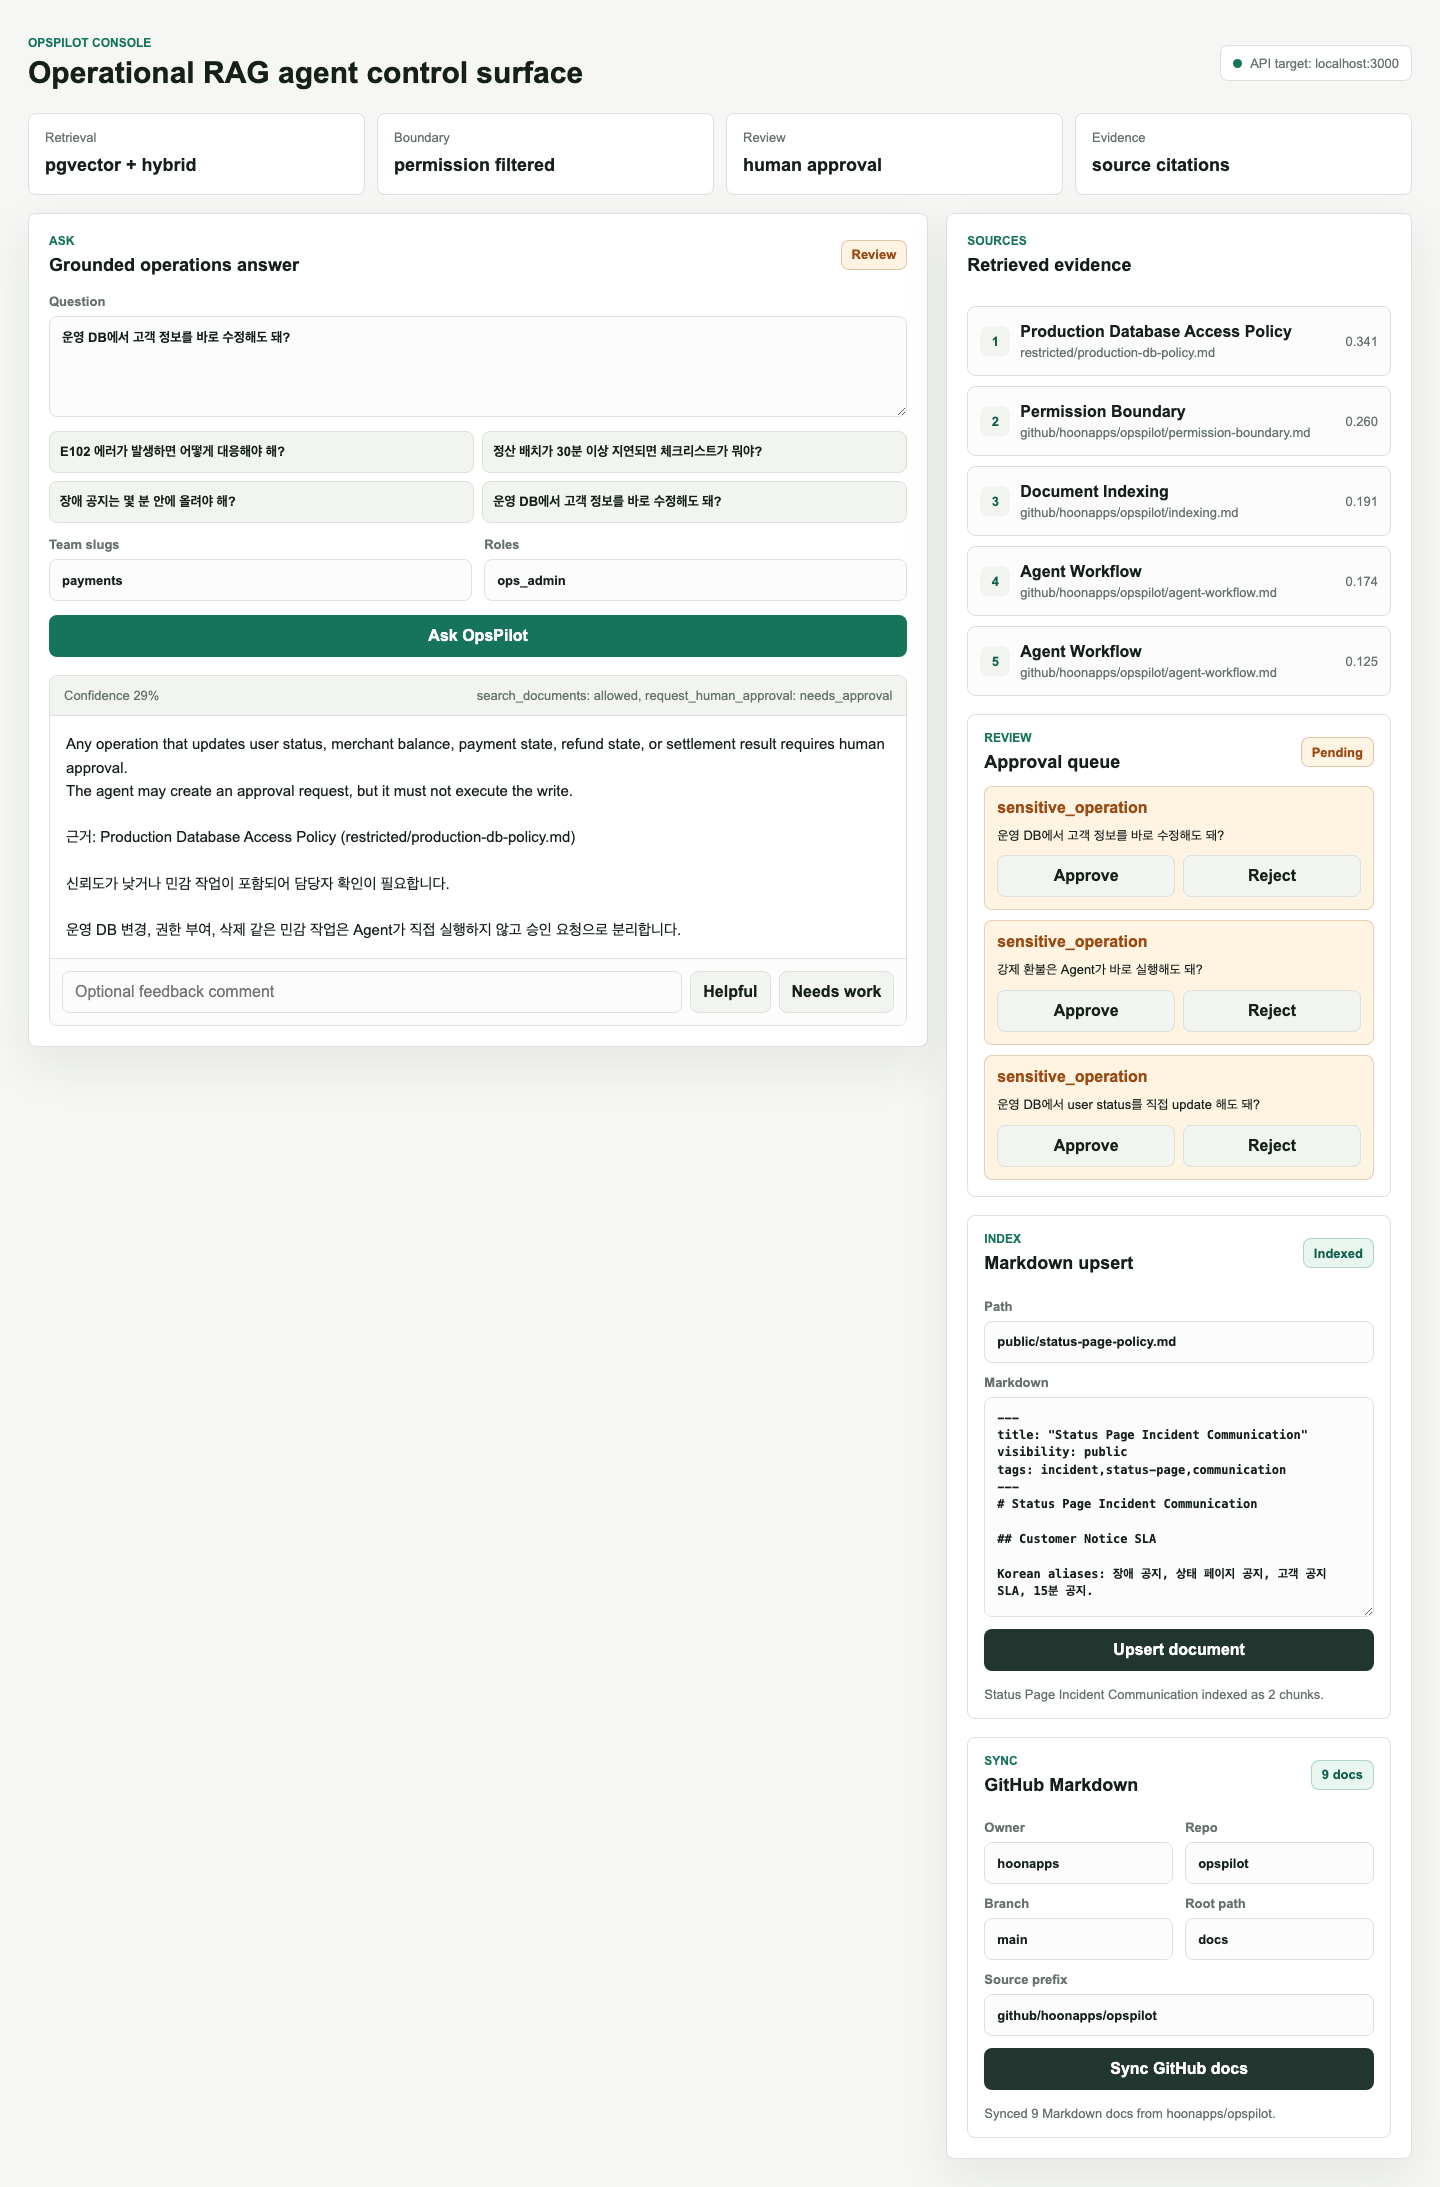
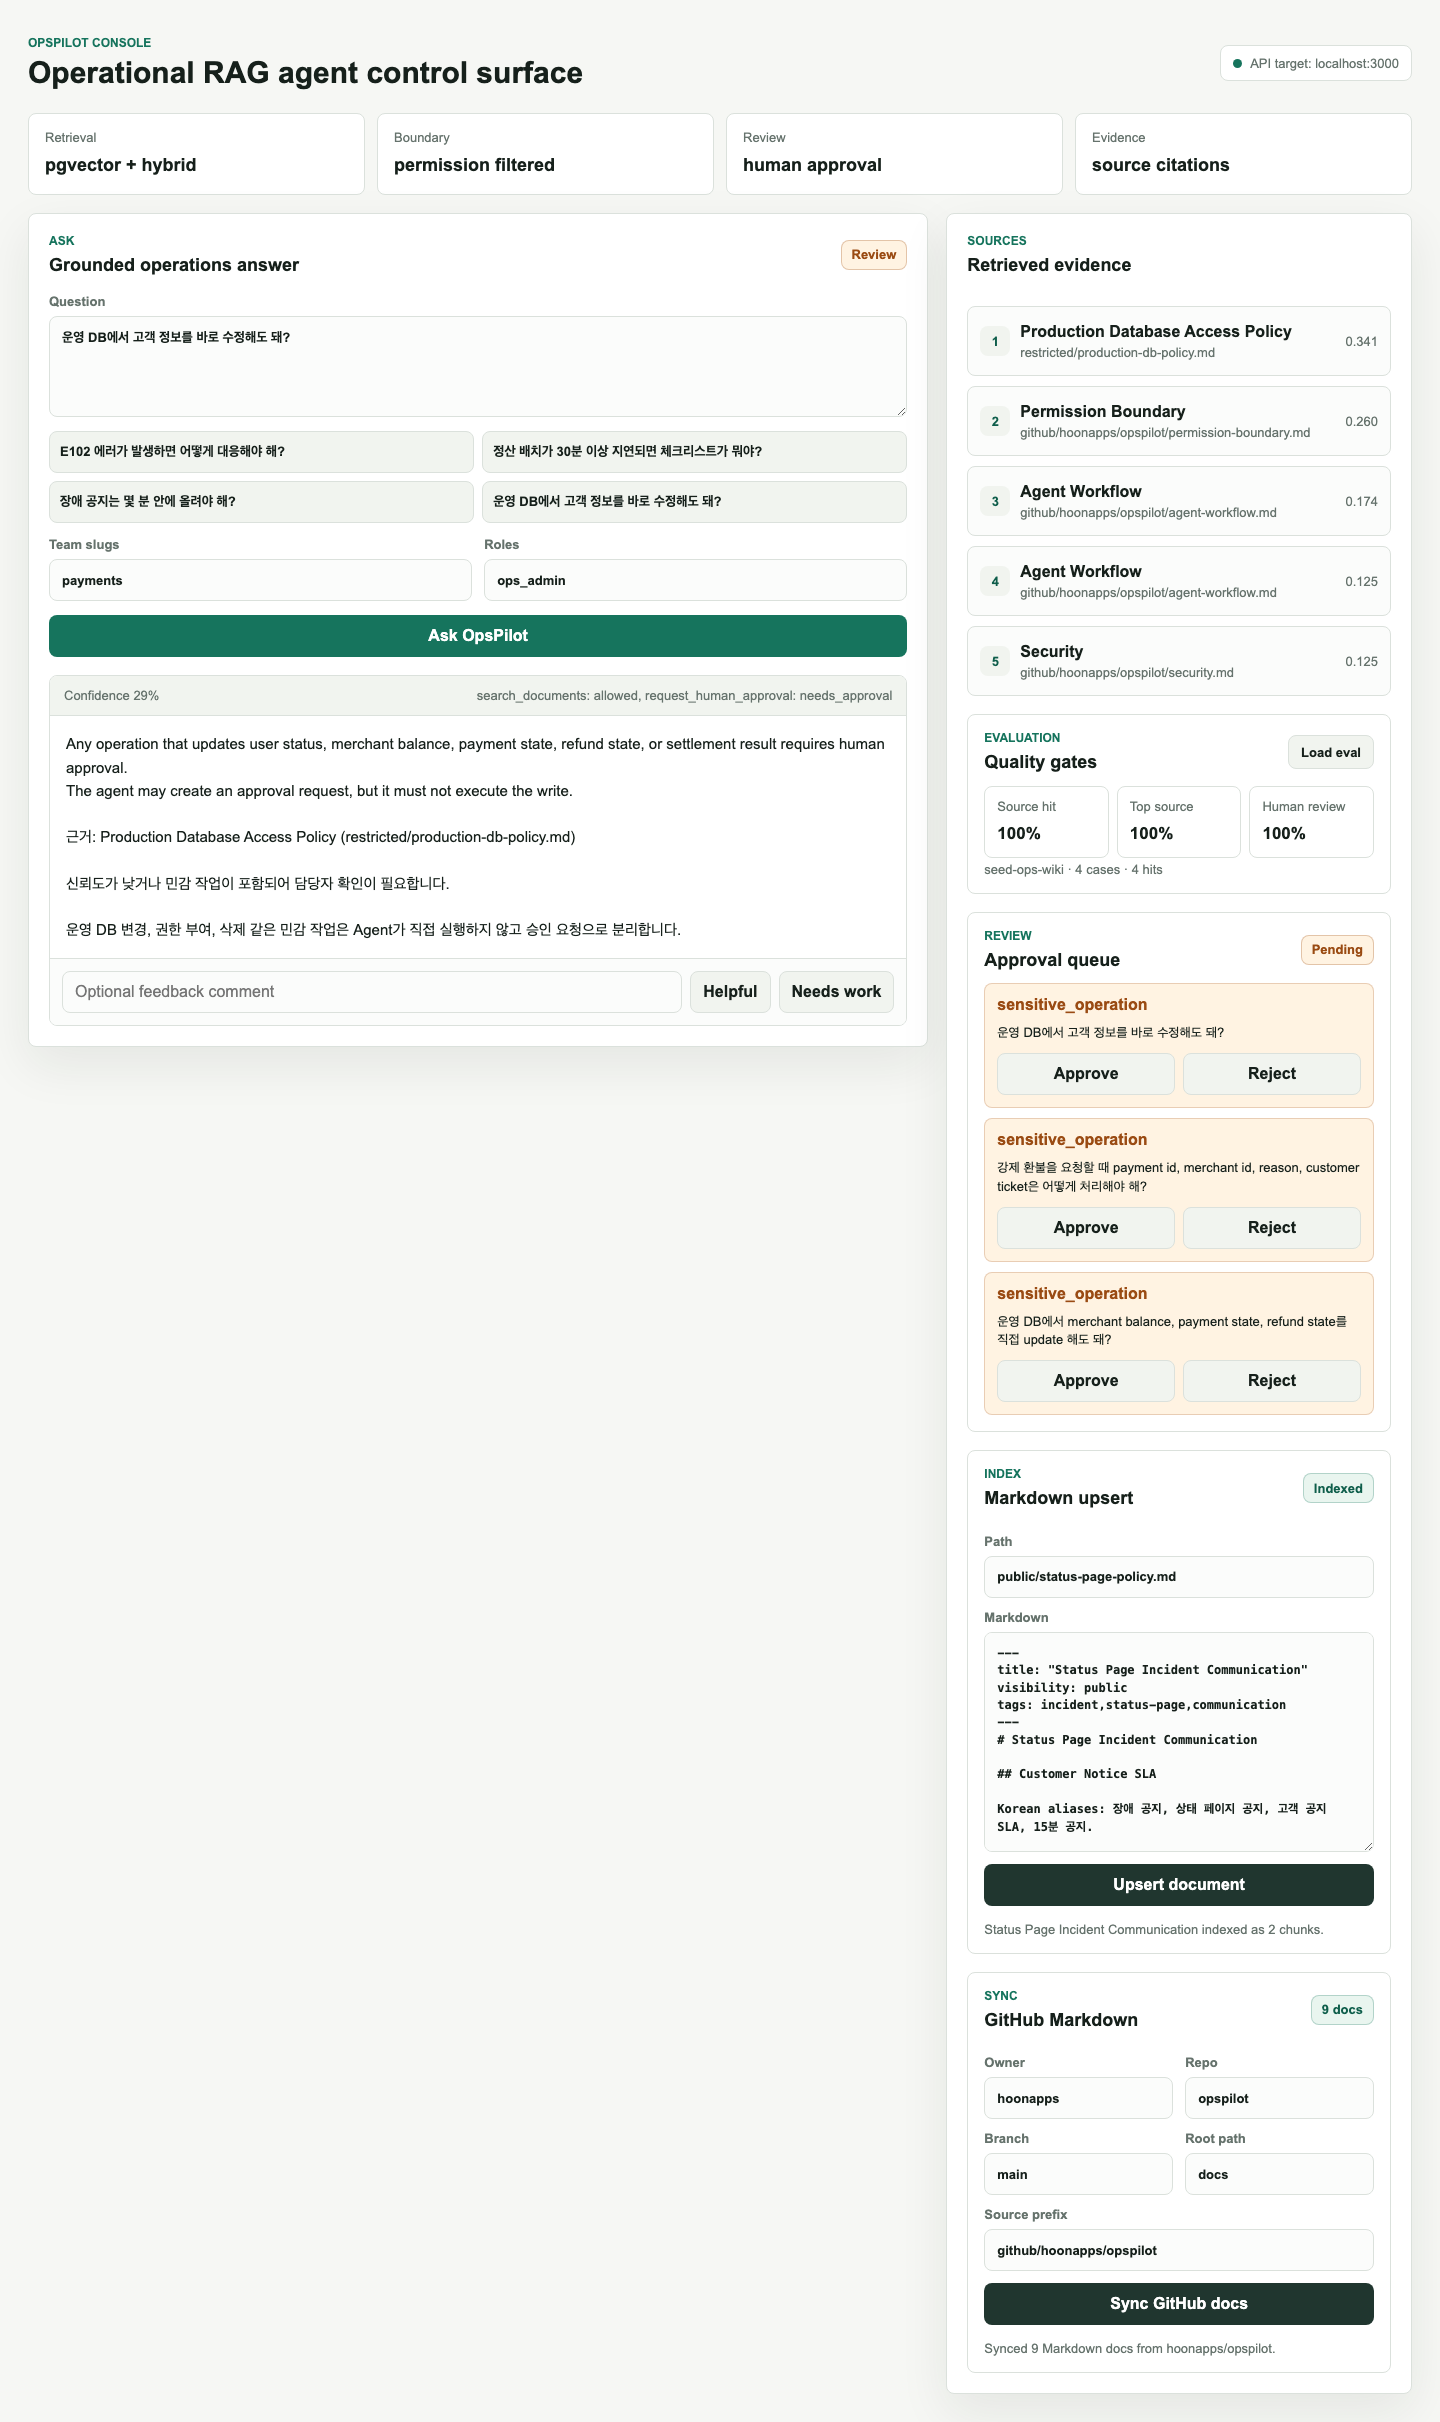
feat: add evaluation quality dashboard

diff --git a/apps/api/src/evaluation/evaluation.service.ts b/apps/api/src/evaluation/evaluation.service.ts
@@ -26,6 +26,25 @@ export type EvalReport = {
   }>;
 };
 
+export type LatestEvalReport = {
+  suiteName: string;
+  createdAt: string;
+  total: number;
+  metrics: {
+    sourceHitRate: number;
+    topSourceAccuracy: number;
+    humanReviewAccuracy: number;
+  };
+  rows: EvalReport["rows"];
+} | null;
+
+type EvaluationMetricRow = {
+  metric_name: string;
+  score: number;
+  details: { total?: number; rows?: EvalReport["rows"] };
+  created_at: Date | string;
+};
+
 @Injectable()
 export class EvaluationService {
   constructor(
@@ -93,6 +112,46 @@ export class EvaluationService {
     );
 
     return report;
+  }
+
+  async latest(suiteName: string): Promise<{ report: LatestEvalReport }> {
+    const rows = (await this.orm.em.fork().getConnection().execute(
+      `
+        select distinct on (metric_name)
+          metric_name,
+          score,
+          details,
+          created_at
+        from evaluation_results
+        where suite_name = ?
+        order by metric_name, created_at desc;
+      `,
+      [suiteName]
+    )) as EvaluationMetricRow[];
+
+    if (rows.length === 0) {
+      return { report: null };
+    }
+
+    const byMetric = new Map(rows.map((row) => [row.metric_name, row]));
+    const details = byMetric.get("source_hit_rate")?.details ?? rows[0].details;
+    const createdAt = rows
+      .map((row) => new Date(row.created_at))
+      .reduce((latest, value) => (value > latest ? value : latest), new Date(rows[0].created_at));
+
+    return {
+      report: {
+        suiteName,
+        createdAt: createdAt.toISOString(),
+        total: details.total ?? details.rows?.length ?? 0,
+        metrics: {
+          sourceHitRate: byMetric.get("source_hit_rate")?.score ?? 0,
+          topSourceAccuracy: byMetric.get("top_source_accuracy")?.score ?? 0,
+          humanReviewAccuracy: byMetric.get("human_review_accuracy")?.score ?? 0
+        },
+        rows: details.rows ?? []
+      }
+    };
   }
 }
 

diff --git a/apps/web/src/app/page.tsx b/apps/web/src/app/page.tsx
@@ -6,6 +6,8 @@ import {
   askOpsPilot,
   AskResponse,
   createFeedback,
+  EvaluationReport,
+  getLatestEvaluation,
   GithubSyncResponse,
   IngestResponse,
   listApprovals,
@@ -49,11 +51,12 @@ export default function Home() {
   const [githubSourcePrefix, setGithubSourcePrefix] = useState("github/hoonapps/opspilot");
   const [answer, setAnswer] = useState<AskResponse | null>(null);
   const [approvals, setApprovals] = useState<Approval[]>([]);
+  const [evaluation, setEvaluation] = useState<EvaluationReport | null>(null);
   const [ingest, setIngest] = useState<IngestResponse | null>(null);
   const [githubSync, setGithubSync] = useState<GithubSyncResponse | null>(null);
   const [feedbackComment, setFeedbackComment] = useState("");
   const [feedbackStatus, setFeedbackStatus] = useState<string | null>(null);
-  const [loading, setLoading] = useState<"ask" | "ingest" | "github" | "approval" | "feedback" | null>(null);
+  const [loading, setLoading] = useState<"ask" | "ingest" | "github" | "approval" | "evaluation" | "feedback" | null>(null);
   const [error, setError] = useState<string | null>(null);
 
   const confidencePercent = useMemo(() => Math.round((answer?.confidence ?? 0) * 100), [answer]);
@@ -140,6 +143,18 @@ export default function Home() {
       setQuestion("OpsPilot의 permission boundary는 어디에서 적용돼?");
     } catch (requestError) {
       setError(requestError instanceof Error ? requestError.message : "GitHub sync request failed");
+    } finally {
+      setLoading(null);
+    }
+  }
+
+  async function loadEvaluation() {
+    setError(null);
+    setLoading("evaluation");
+    try {
+      setEvaluation(await getLatestEvaluation());
+    } catch (requestError) {
+      setError(requestError instanceof Error ? requestError.message : "Evaluation request failed");
     } finally {
       setLoading(null);
     }
@@ -256,6 +271,32 @@ export default function Home() {
             )}
           </div>
 
+          <section className="evalPanel">
+            <div className="sectionHeader compact">
+              <div>
+                <p className="eyebrow">Evaluation</p>
+                <h2>Quality gates</h2>
+              </div>
+              <button className="smallButton" disabled={loading === "evaluation"} onClick={loadEvaluation} type="button">
+                {loading === "evaluation" ? "Loading..." : "Load eval"}
+              </button>
+            </div>
+            {evaluation ? (
+              <>
+                <div className="evalGrid">
+                  <Metric label="Source hit" value={formatPercent(evaluation.metrics.sourceHitRate)} />
+                  <Metric label="Top source" value={formatPercent(evaluation.metrics.topSourceAccuracy)} />
+                  <Metric label="Human review" value={formatPercent(evaluation.metrics.humanReviewAccuracy)} />
+                </div>
+                <p className="ingestResult">
+                  {evaluation.suiteName} · {evaluation.total} cases · {evaluation.rows.filter((row) => row.hit).length} hits
+                </p>
+              </>
+            ) : (
+              <p className="empty">Run `pnpm eval`, then load the latest quality report.</p>
+            )}
+          </section>
+
           <section className="approvalPanel">
             <div className="sectionHeader compact">
               <div>
@@ -368,4 +409,8 @@ function Metric({ label, value }: { label: string; value: string }) {
       <strong>{value}</strong>
     </div>
   );
+}
+
+function formatPercent(value: number): string {
+  return `${Math.round(value * 100)}%`;
 }

diff --git a/apps/web/src/lib/api.ts b/apps/web/src/lib/api.ts
@@ -49,6 +49,25 @@ export type GithubSyncResponse = {
   documents: IngestResponse[];
 };
 
+export type EvaluationReport = {
+  suiteName: string;
+  createdAt: string;
+  total: number;
+  metrics: {
+    sourceHitRate: number;
+    topSourceAccuracy: number;
+    humanReviewAccuracy: number;
+  };
+  rows: Array<{
+    id: string;
+    hit: boolean;
+    needsHumanReview: boolean;
+    expectedSources: string[];
+    actualSources: string[];
+    confidence: number;
+  }>;
+};
+
 const API_BASE_URL = process.env.NEXT_PUBLIC_API_BASE_URL ?? "http://localhost:3000";
 
 export async function askOpsPilot(input: {
@@ -145,4 +164,15 @@ export async function syncGithubDocuments(input: {
   }
 
   return response.json() as Promise<GithubSyncResponse>;
+}
+
+export async function getLatestEvaluation(): Promise<EvaluationReport | null> {
+  const response = await fetch(`${API_BASE_URL}/evaluations/latest`);
+
+  if (!response.ok) {
+    throw new Error(await response.text());
+  }
+
+  const data = (await response.json()) as { report: EvaluationReport | null };
+  return data.report;
 }

diff --git a/apps/web/src/app/globals.css b/apps/web/src/app/globals.css
@@ -246,6 +246,7 @@ textarea:focus {
 .chip,
 .primaryButton,
 .secondaryButton,
+.smallButton,
 .feedbackBar button,
 .approvalActions button {
   min-height: 42px;
@@ -277,6 +278,15 @@ textarea:focus {
   width: 100%;
   background: #20362f;
   color: white;
+}
+
+.smallButton {
+  min-height: 34px;
+  border: 1px solid var(--line);
+  background: var(--panel-soft);
+  color: var(--ink);
+  padding: 0 12px;
+  font-size: 13px;
 }
 
 .answerPanel {
@@ -390,11 +400,28 @@ pre {
   box-shadow: none;
 }
 
+.evalPanel,
 .approvalPanel {
   border: 1px solid var(--line);
   border-radius: 8px;
   background: var(--panel);
   padding: 16px;
+}
+
+.evalGrid {
+  display: grid;
+  grid-template-columns: repeat(3, minmax(0, 1fr));
+  gap: 8px;
+}
+
+.evalGrid .metric {
+  min-height: 72px;
+  padding: 12px;
+  box-shadow: none;
+}
+
+.evalGrid .metric strong {
+  font-size: 17px;
 }
 
 .approvalList {
@@ -456,6 +483,7 @@ pre {
   .workspace,
   .fieldGrid,
   .quickGrid,
+  .evalGrid,
   .feedbackBar {
     grid-template-columns: 1fr;
   }

diff --git a/apps/api/src/evaluation/evaluation.controller.ts b/apps/api/src/evaluation/evaluation.controller.ts
@@ -1,0 +1,14 @@
+import { Controller, Get, Query } from "@nestjs/common";
+import { ApiTags } from "@nestjs/swagger";
+import { EvaluationService } from "./evaluation.service";
+
+@ApiTags("evaluations")
+@Controller("evaluations")
+export class EvaluationController {
+  constructor(private readonly evaluationService: EvaluationService) {}
+
+  @Get("latest")
+  latest(@Query("suiteName") suiteName?: string) {
+    return this.evaluationService.latest(suiteName ?? "seed-ops-wiki");
+  }
+}

diff --git a/apps/api/src/evaluation/evaluation.module.ts b/apps/api/src/evaluation/evaluation.module.ts
@@ -1,9 +1,11 @@
 import { Module } from "@nestjs/common";
 import { AgentModule } from "../agent/agent.module";
+import { EvaluationController } from "./evaluation.controller";
 import { EvaluationService } from "./evaluation.service";
 
 @Module({
   imports: [AgentModule],
+  controllers: [EvaluationController],
   providers: [EvaluationService],
   exports: [EvaluationService]
 })

diff --git a/docs/evaluation.md b/docs/evaluation.md
@@ -17,6 +17,15 @@ pnpm eval
 
 The evaluation command ingests seed documents, asks each question, stores metric rows in `evaluation_results`, and prints a JSON report.
 
+## Latest Report API
+
+```txt
+GET /evaluations/latest
+GET /evaluations/latest?suiteName=seed-ops-wiki
+```
+
+The API returns the latest source hit rate, top source accuracy, human review accuracy, total case count, and per-question rows for the requested suite. The web console uses this endpoint for the quality gate panel.
+
 ## Planned Additions
 
 - groundedness check per answer sentence

diff --git a/docs/system-design.md b/docs/system-design.md
@@ -4,9 +4,9 @@ OpsPilot is designed as an operational knowledge platform with an agentic RAG ba
 
 ## Components
 
-- API: NestJS HTTP API for document ingestion, queued indexing jobs, GitHub Markdown sync, asking questions, feedback, and approvals
-- Web Console: Next.js UI for asking questions, viewing sources/tool calls, and upserting Markdown documents
-- Database: PostgreSQL stores documents, chunks, embeddings, questions, answers, sources, approvals, and evaluation results
+- API: NestJS HTTP API for document ingestion, queued indexing jobs, GitHub Markdown sync, asking questions, evaluation reports, feedback, and approvals
+- Web Console: Next.js UI for asking questions, viewing sources/tool calls, evaluation metrics, and upserting Markdown documents
+- Database: PostgreSQL stores documents, chunks, embeddings, questions, answers, sources, approvals, feedback, and evaluation results
 - Vector Search: pgvector performs permission-aware semantic retrieval
 - Search Extension: Elasticsearch performs optional BM25 keyword retrieval and hybrid fusion
 - Worker: BullMQ indexing worker consumes Redis jobs and reuses the document ingestion service
@@ -44,7 +44,8 @@ OpsPilot is designed as an operational knowledge platform with an agentic RAG ba
 5. The answer panel renders the generated response, confidence, review state, and tool calls.
 6. The source panel renders ranked source documents so retrieval quality can be inspected during a demo.
 7. Operators can save answer feedback through `POST /feedback`.
-8. Sensitive requests appear in the approval queue and can be approved or rejected through `PATCH /approvals/:id`.
+8. Operators can load the latest source hit, top source, and human review metrics through `GET /evaluations/latest`.
+9. Sensitive requests appear in the approval queue and can be approved or rejected through `PATCH /approvals/:id`.
 
 ## Permission Boundary
 

diff --git a/README.md b/README.md
@@ -178,6 +178,7 @@ Without an OpenAI key, OpsPilot uses deterministic local embeddings and a ground
 - Human approval request creation for sensitive work
 - Approval queue API and feedback logging API
 - Evaluation script with expected source hit rate
+- Latest evaluation API and web quality gate panel
 - New document indexing smoke test
 - Next.js web console for asking questions, syncing GitHub Markdown, upserting Markdown documents, saving feedback, and resolving approval requests
 
@@ -204,11 +205,12 @@ Done:
 - `create_runbook_checklist` tool call for runbook questions
 - Slack Events API endpoint and local app mention simulator
 - Evaluation command with expected source hit rate
+- Latest evaluation API and web console quality gate panel
 - Runtime Markdown document upsert API and indexing smoke test
 - GitHub Markdown sync API and offline sync smoke test
 - BullMQ indexing queue, worker CLI, job status API, and queue smoke test
 - Review workflow smoke test
-- Next.js web console and Playwright smoke test with GitHub sync, feedback, and approval queue coverage
+- Next.js web console and Playwright smoke test with evaluation metrics, GitHub sync, feedback, and approval queue coverage
 - GitHub Actions CI for build, eval, checklist, GitHub sync, direct indexing, queue indexing, review, and browser smoke gates
 - README product preview image
 
@@ -273,7 +275,7 @@ Details: [docs/indexing.md](docs/indexing.md)
 
 ## CI
 
-GitHub Actions runs typecheck, build, database migrations, RAG evaluation, indexing smoke, queue indexing smoke, GitHub sync smoke, review smoke, and browser smoke tests that exercise the GitHub sync UI.
+GitHub Actions runs typecheck, build, database migrations, RAG evaluation, indexing smoke, queue indexing smoke, GitHub sync smoke, review smoke, and browser smoke tests that exercise the evaluation panel and GitHub sync UI.
 
 Details: [docs/ci.md](docs/ci.md)
 

diff --git a/docs/ci.md b/docs/ci.md
@@ -16,6 +16,6 @@ OpsPilot runs a GitHub Actions pipeline on pushes and pull requests to `main`.
 - verify BullMQ queue indexing worker behavior with `pnpm queue:smoke`
 - verify GitHub Markdown sync indexing with `pnpm github:smoke`
 - verify sensitive-action review and feedback with `pnpm review:smoke`
-- start the API and web console, then run Playwright `pnpm web:smoke` against GitHub sync, answer, feedback, and approval flows
+- start the API and web console, then run Playwright `pnpm web:smoke` against evaluation metrics, GitHub sync, answer, feedback, and approval flows
 
-The CI workflow intentionally exercises the portfolio claims that matter most: grounded retrieval, permission boundaries, async queue indexing, GitHub document sync, runbook tool calling, human approval separation, feedback logging, and a working browser demo.
+The CI workflow intentionally exercises the portfolio claims that matter most: grounded retrieval, evaluation metrics, permission boundaries, async queue indexing, GitHub document sync, runbook tool calling, human approval separation, feedback logging, and a working browser demo.